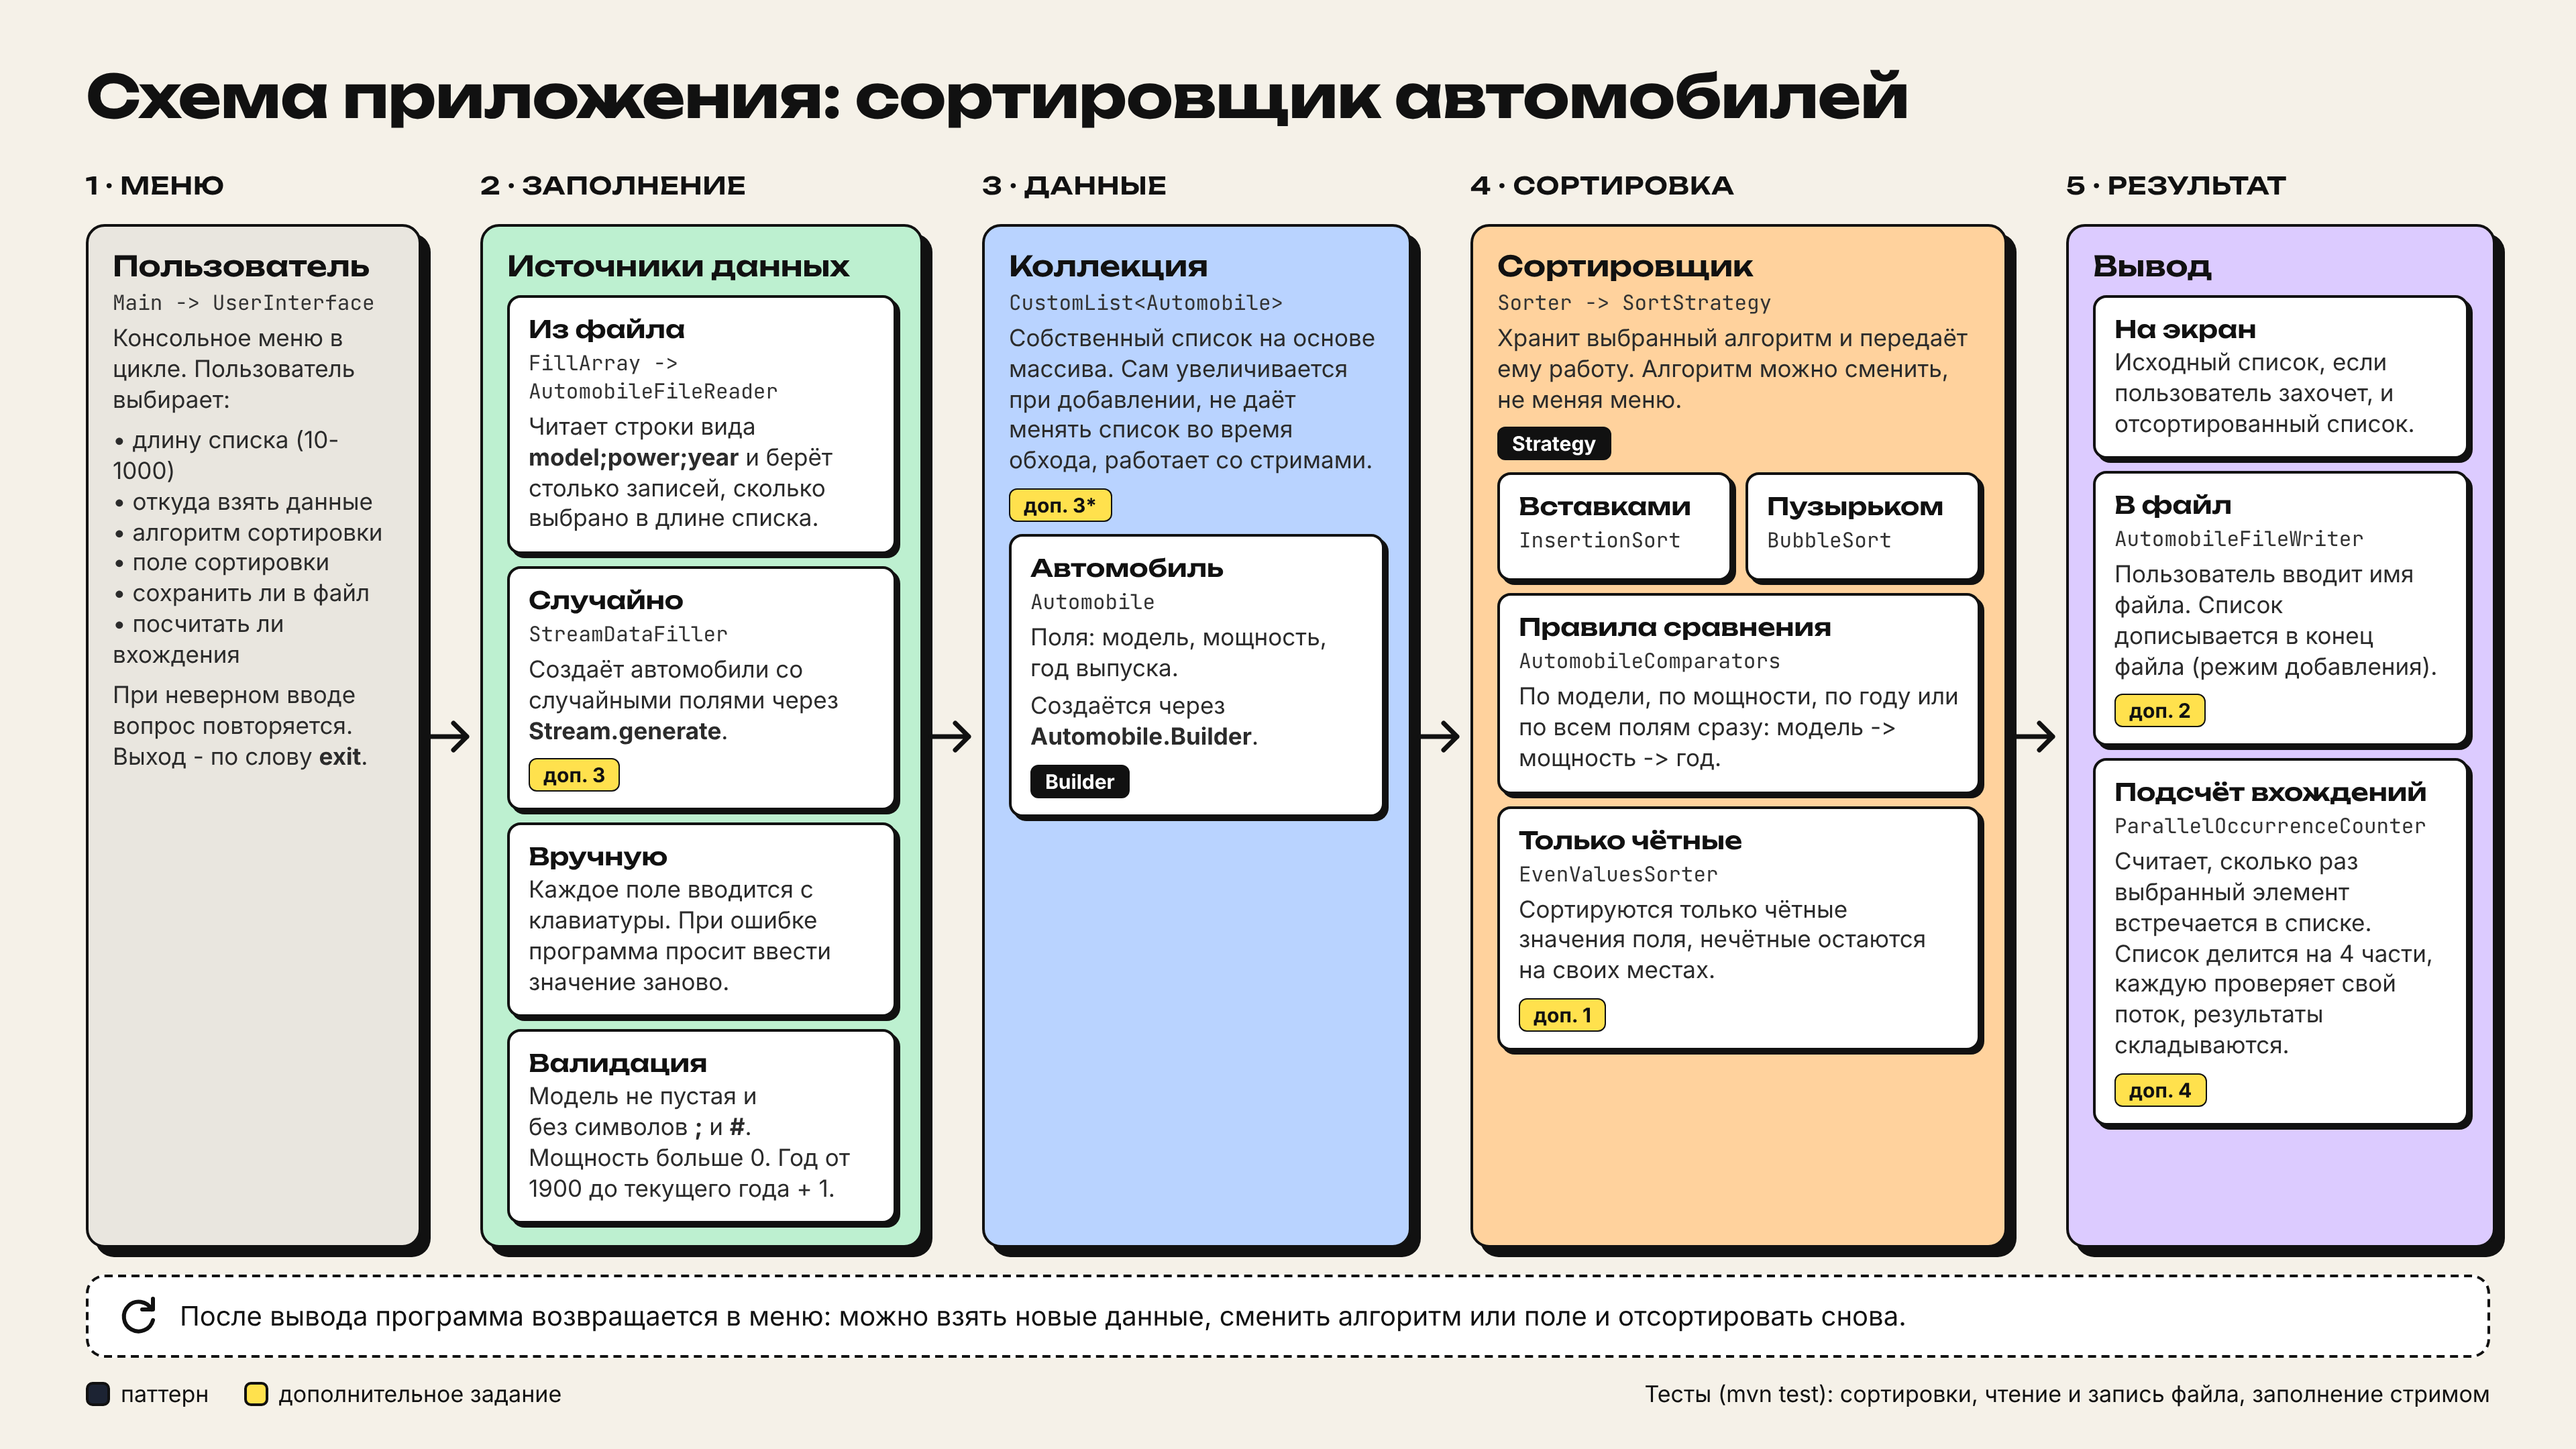
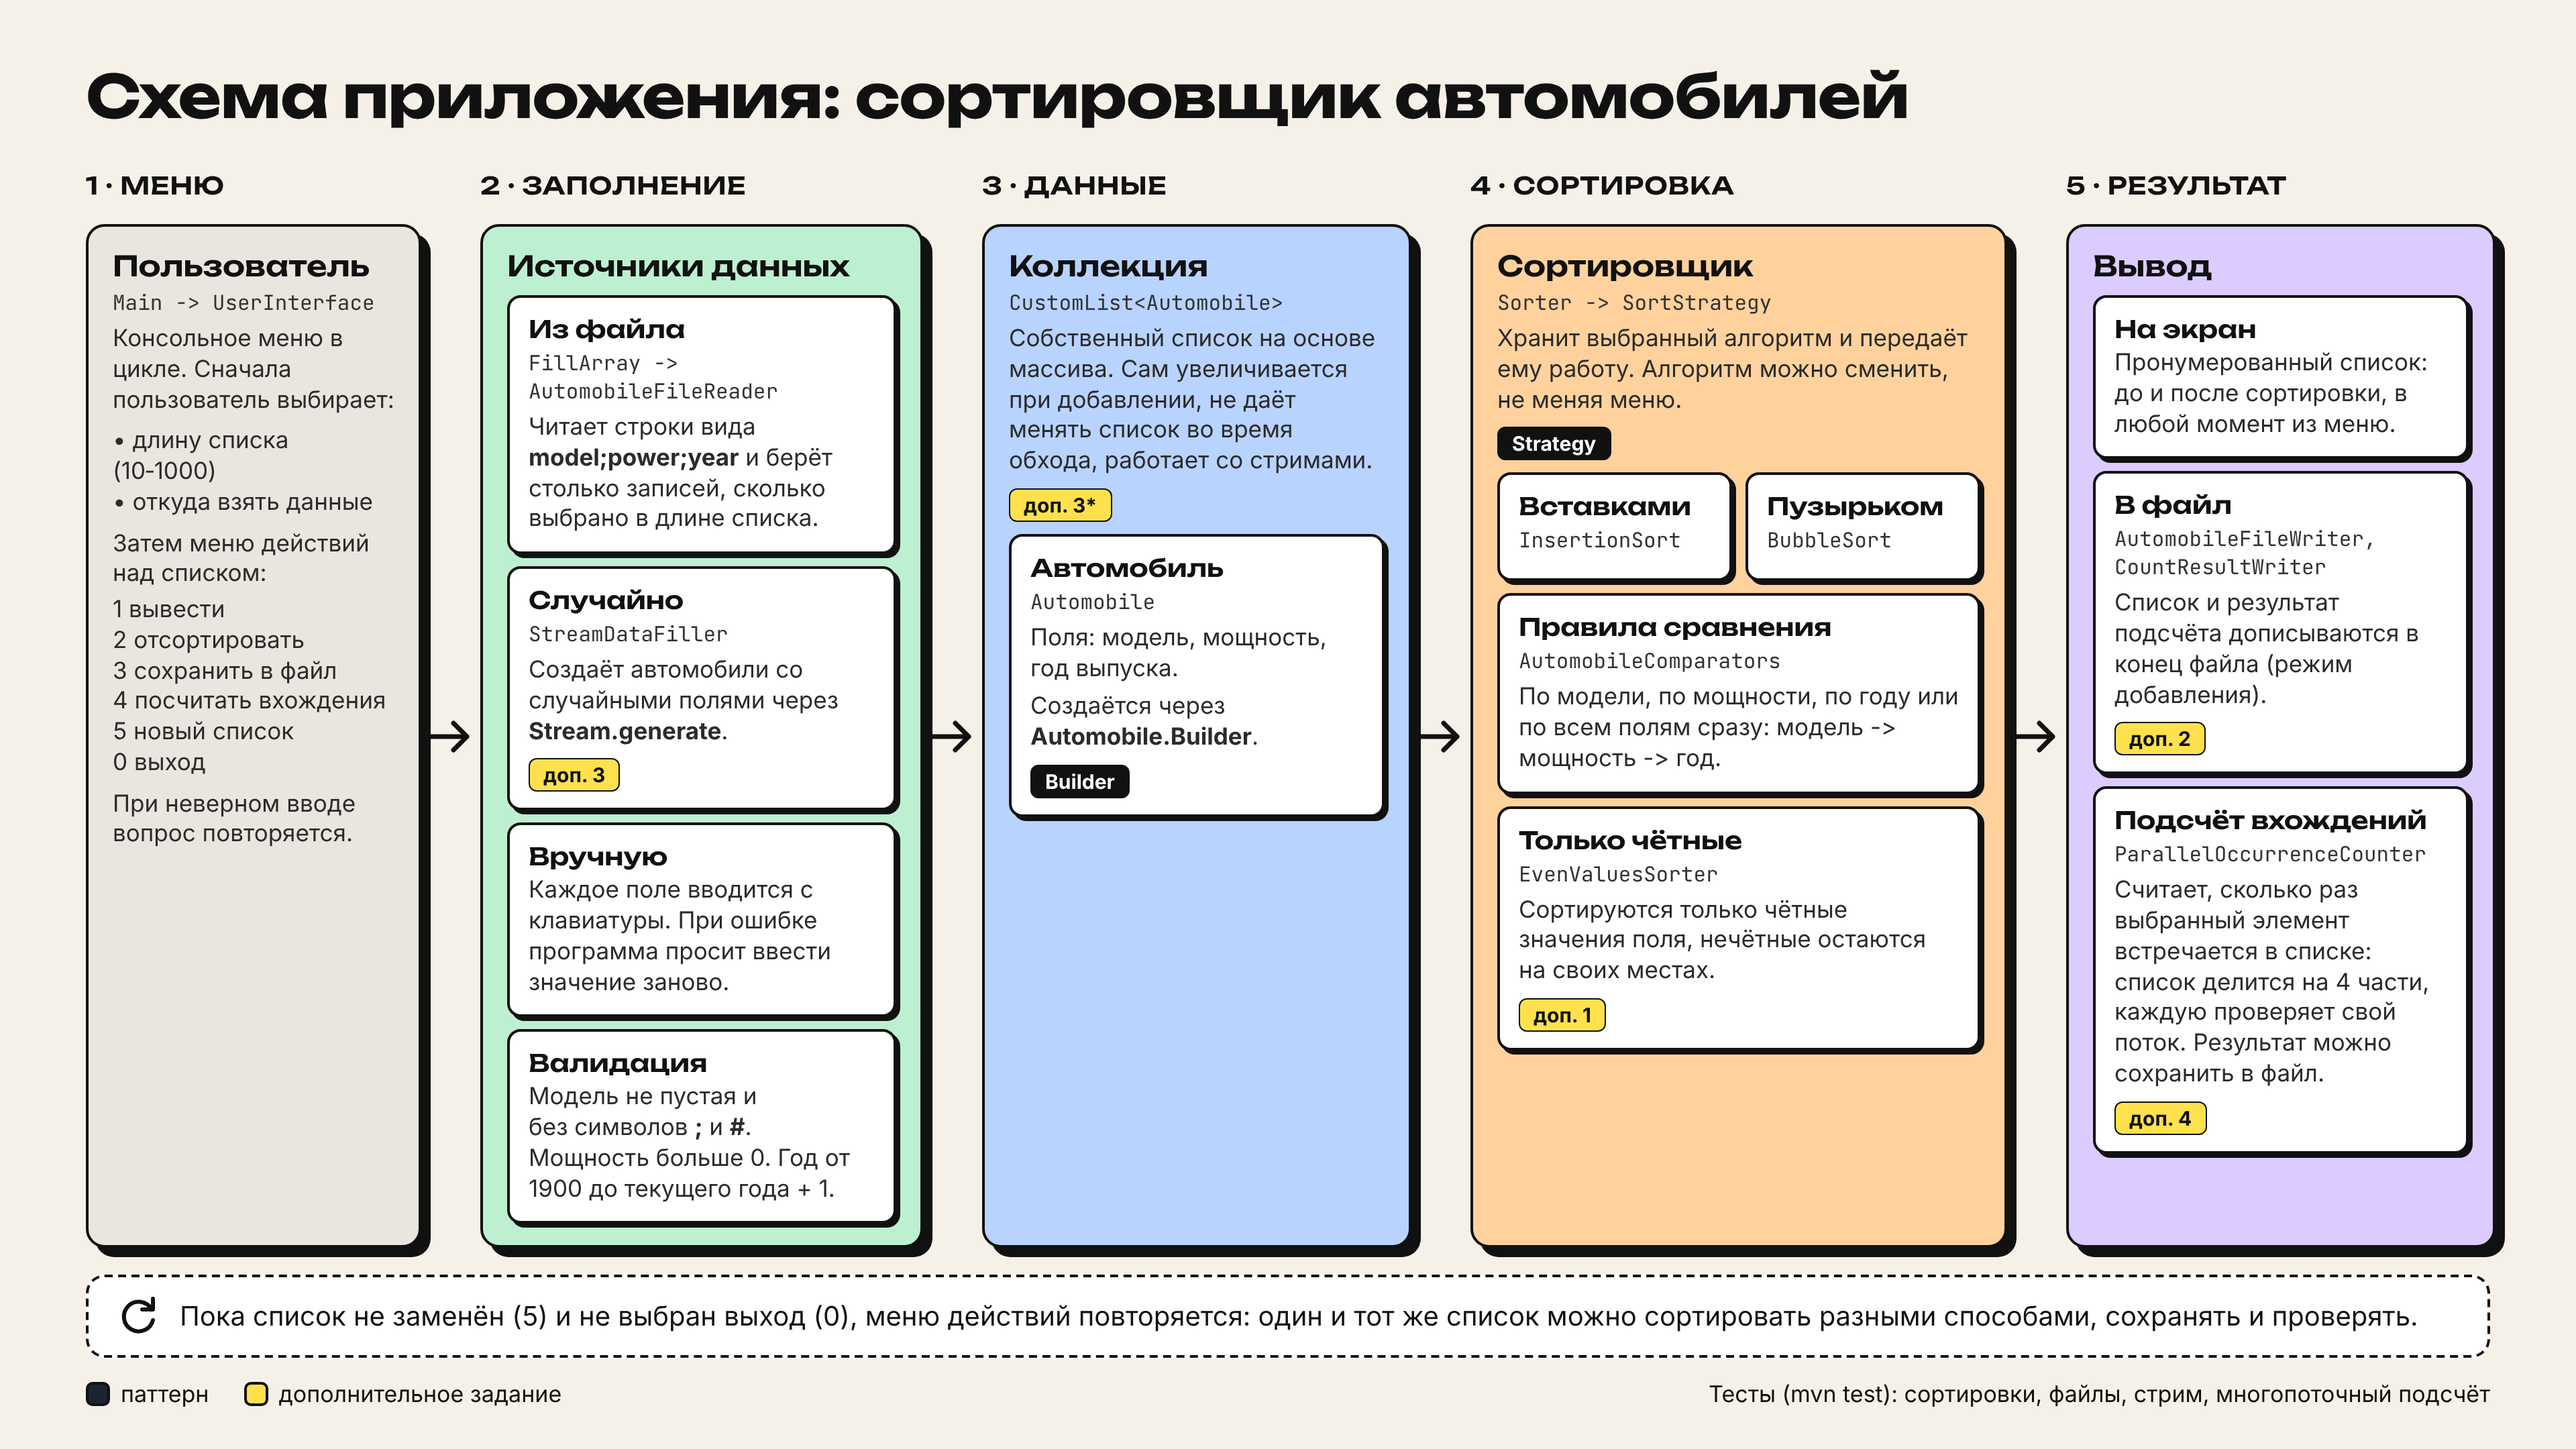
Обновлены схемы и readme файл под актуальную версию программы

diff --git a/README.md b/README.md
@@ -15,9 +15,12 @@
 - Две сортировки, написанные вручную: вставками и пузырьком.
 - Сортировка по модели, по мощности, по году или по всем полям сразу (модель -> мощность -> год).
 - Сортировка только чётных значений числового поля: нечётные остаются на своих местах.
-- Сохранение отсортированного списка в файл в режиме добавления.
+- Сохранение отсортированного списка и результата подсчёта в файл в режиме добавления.
 - Многопоточный подсчёт того, сколько раз выбранный элемент встречается в списке.
-- Программа работает в цикле. Выход - по слову `exit`.
+- Меню действий над заполненным списком: вывести, отсортировать, сохранить, посчитать
+вхождения - сколько угодно раз, пока не выбран новый список или выход.
+- Повторение вопроса: неверный ввод "не роняет" программу.
+- Программа работает в цикле. Выход - пункт 0 в меню действий.
 
 ## Запуск
 
@@ -44,7 +47,8 @@ Audi A4;190;2019
 mvn test
 ```
 
-Команда запускает все тесты проекта: сортировки, чтение и запись файла, заполнение через стрим. 
+Команда запускает все тесты проекта: сортировки, чтение и запись файла, запись результата подсчёта,
+заполнение через стрим, многопоточный подсчёт.
 Тесты сортировки написаны вручную, их можно запустить и отдельно через класс `aston.sort.AllSortTests`.
 
 ## Структура
@@ -60,13 +64,13 @@ mvn test
 
 ## Дополнительные задания
 
-| №  | Задание                                                     | Где реализовано                  |
-|----|-------------------------------------------------------------|----------------------------------|
-| 1  | Сортировка только чётных значений числового поля            | `EvenValuesSorter`               |
-| 2  | Запись отсортированной коллекции в файл в режиме добавления | `AutomobileFileWriter.appendAll` |
-| 3  | Заполнение коллекции через стримы                           | `StreamDataFiller`               |
-| 3* | Собственная коллекция                                       | `CustomList`                     |
-| 4  | Многопоточный подсчёт вхождений элемента                    | `ParallelOccurrenceCounter`      |
+| №  | Задание                                                     | Где реализовано                                       |
+|----|-------------------------------------------------------------|-------------------------------------------------------|
+| 1  | Сортировка только чётных значений числового поля            | `EvenValuesSorter`                                    |
+| 2  | Запись отсортированной коллекции в файл в режиме добавления | `AutomobileFileWriter.appendAll`, `CountResultWriter` |
+| 3  | Заполнение коллекции через стримы                           | `StreamDataFiller`                                    |
+| 3* | Собственная коллекция                                       | `CustomList`                                          |
+| 4  | Многопоточный подсчёт вхождений элемента                    | `ParallelOccurrenceCounter`                           |
 
 ## Команда
 
@@ -87,8 +91,9 @@ mvn test
 - Алгоритмы: `InsertionSort` (вставками), `BubbleSort` (пузырьком).
 - `EvenValuesSorter` (доп. 1): сортировка только чётных значений числового поля.
 - Правки в `UserInterface`: пункт «все поля», вывод списка после сортировки, запись в файл 
-в режиме добавления (`appendAll`).
-- Тесты: `SortStrategyTest`, `EvenValuesSorterTest`, `SortTestHelper`, `AllSortTests`, `SortTestsTest`.
+в режиме добавления (`appendAll`) и прочие правки.
+- `CountResultWriter`: сохранение результата подсчёта в файл.
+- Тесты: `SortStrategyTest`, `EvenValuesSorterTest`, `SortTestHelper`, `AllSortTests`, `SortTestsTest` , `CountResultWriterTest`.
 
 ### Шустер Алексей
 
@@ -109,3 +114,4 @@ mvn test
 - `ParallelOccurrenceCounter` (доп. 4): многопоточный подсчёт вхождений 
 элемента - список делится на части, каждую считает свой поток (`ExecutorService`, `Callable`, `Future`),
 результаты складываются.
+- Тест: `ParallelOccurrenceCounterTest`.
